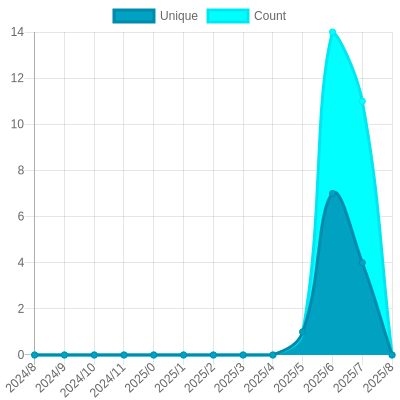
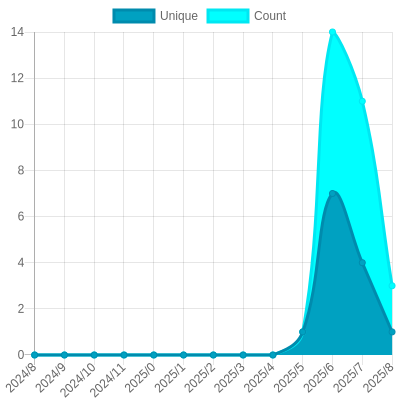
Update views

diff --git a/readme/709003659/year.md b/readme/709003659/year.md
@@ -23,10 +23,10 @@
 			<code>2024/9/1</code>
 		</td>
 		<td>
-			<code>0</code>
+			<code>1</code>
 		</td>
 		<td>
-			<code>0</code>
+			<code>3</code>
 		</td>
 	</tr>
 	<tr>
@@ -164,7 +164,7 @@
 </table>
 
 </details>
-<small><i>Last updated on 2024/9/25 1:26 AM UTC</i></small>
+<small><i>Last updated on 2024/9/25 6:26 AM UTC</i></small>
 
 ## ✂Copy and 📋 Paste
 ### SVG Badge

diff --git a/README.md b/README.md
@@ -117,7 +117,7 @@ The project created and maintained by [gayanvoice](https://github.com/gayanvoice
 	</tr>
 </table>
 
-<small><i>Last updated on 2024/9/25 1:27 AM UTC</i></small>
+<small><i>Last updated on 2024/9/25 6:27 AM UTC</i></small>
 
 ## ✂Copy and 📋 Paste
 ### Total Views Badge

diff --git a/readme/609208715/year.md b/readme/609208715/year.md
@@ -164,7 +164,7 @@
 </table>
 
 </details>
-<small><i>Last updated on 2024/9/25 1:26 AM UTC</i></small>
+<small><i>Last updated on 2024/9/25 6:27 AM UTC</i></small>
 
 ## ✂Copy and 📋 Paste
 ### SVG Badge

diff --git a/readme/650234975/year.md b/readme/650234975/year.md
@@ -164,7 +164,7 @@
 </table>
 
 </details>
-<small><i>Last updated on 2024/9/25 1:26 AM UTC</i></small>
+<small><i>Last updated on 2024/9/25 6:27 AM UTC</i></small>
 
 ## ✂Copy and 📋 Paste
 ### SVG Badge

diff --git a/readme/791939581/year.md b/readme/791939581/year.md
@@ -164,7 +164,7 @@
 </table>
 
 </details>
-<small><i>Last updated on 2024/9/25 1:26 AM UTC</i></small>
+<small><i>Last updated on 2024/9/25 6:27 AM UTC</i></small>
 
 ## ✂Copy and 📋 Paste
 ### SVG Badge

diff --git a/readme/794573303/year.md b/readme/794573303/year.md
@@ -164,7 +164,7 @@
 </table>
 
 </details>
-<small><i>Last updated on 2024/9/25 1:26 AM UTC</i></small>
+<small><i>Last updated on 2024/9/25 6:27 AM UTC</i></small>
 
 ## ✂Copy and 📋 Paste
 ### SVG Badge

diff --git a/readme/823035502/year.md b/readme/823035502/year.md
@@ -164,7 +164,7 @@
 </table>
 
 </details>
-<small><i>Last updated on 2024/9/25 1:26 AM UTC</i></small>
+<small><i>Last updated on 2024/9/25 6:27 AM UTC</i></small>
 
 ## ✂Copy and 📋 Paste
 ### SVG Badge
